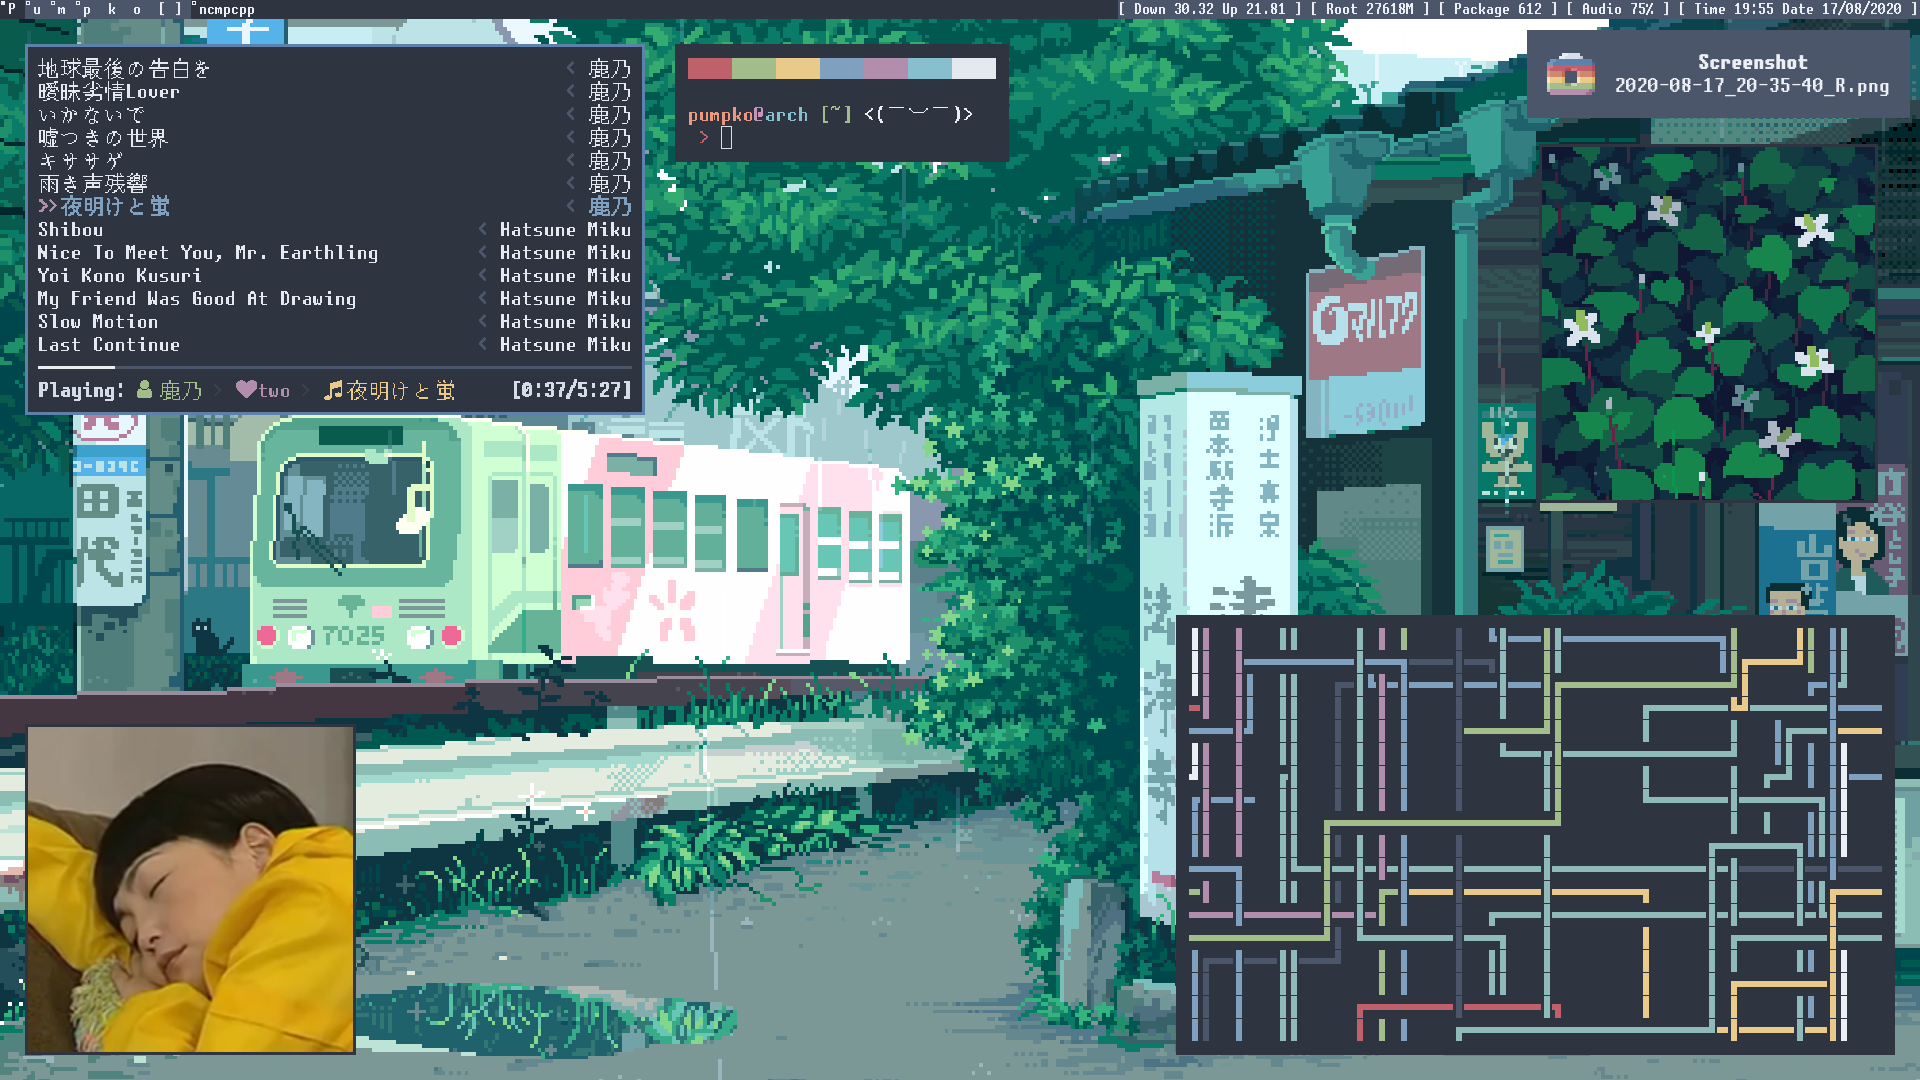
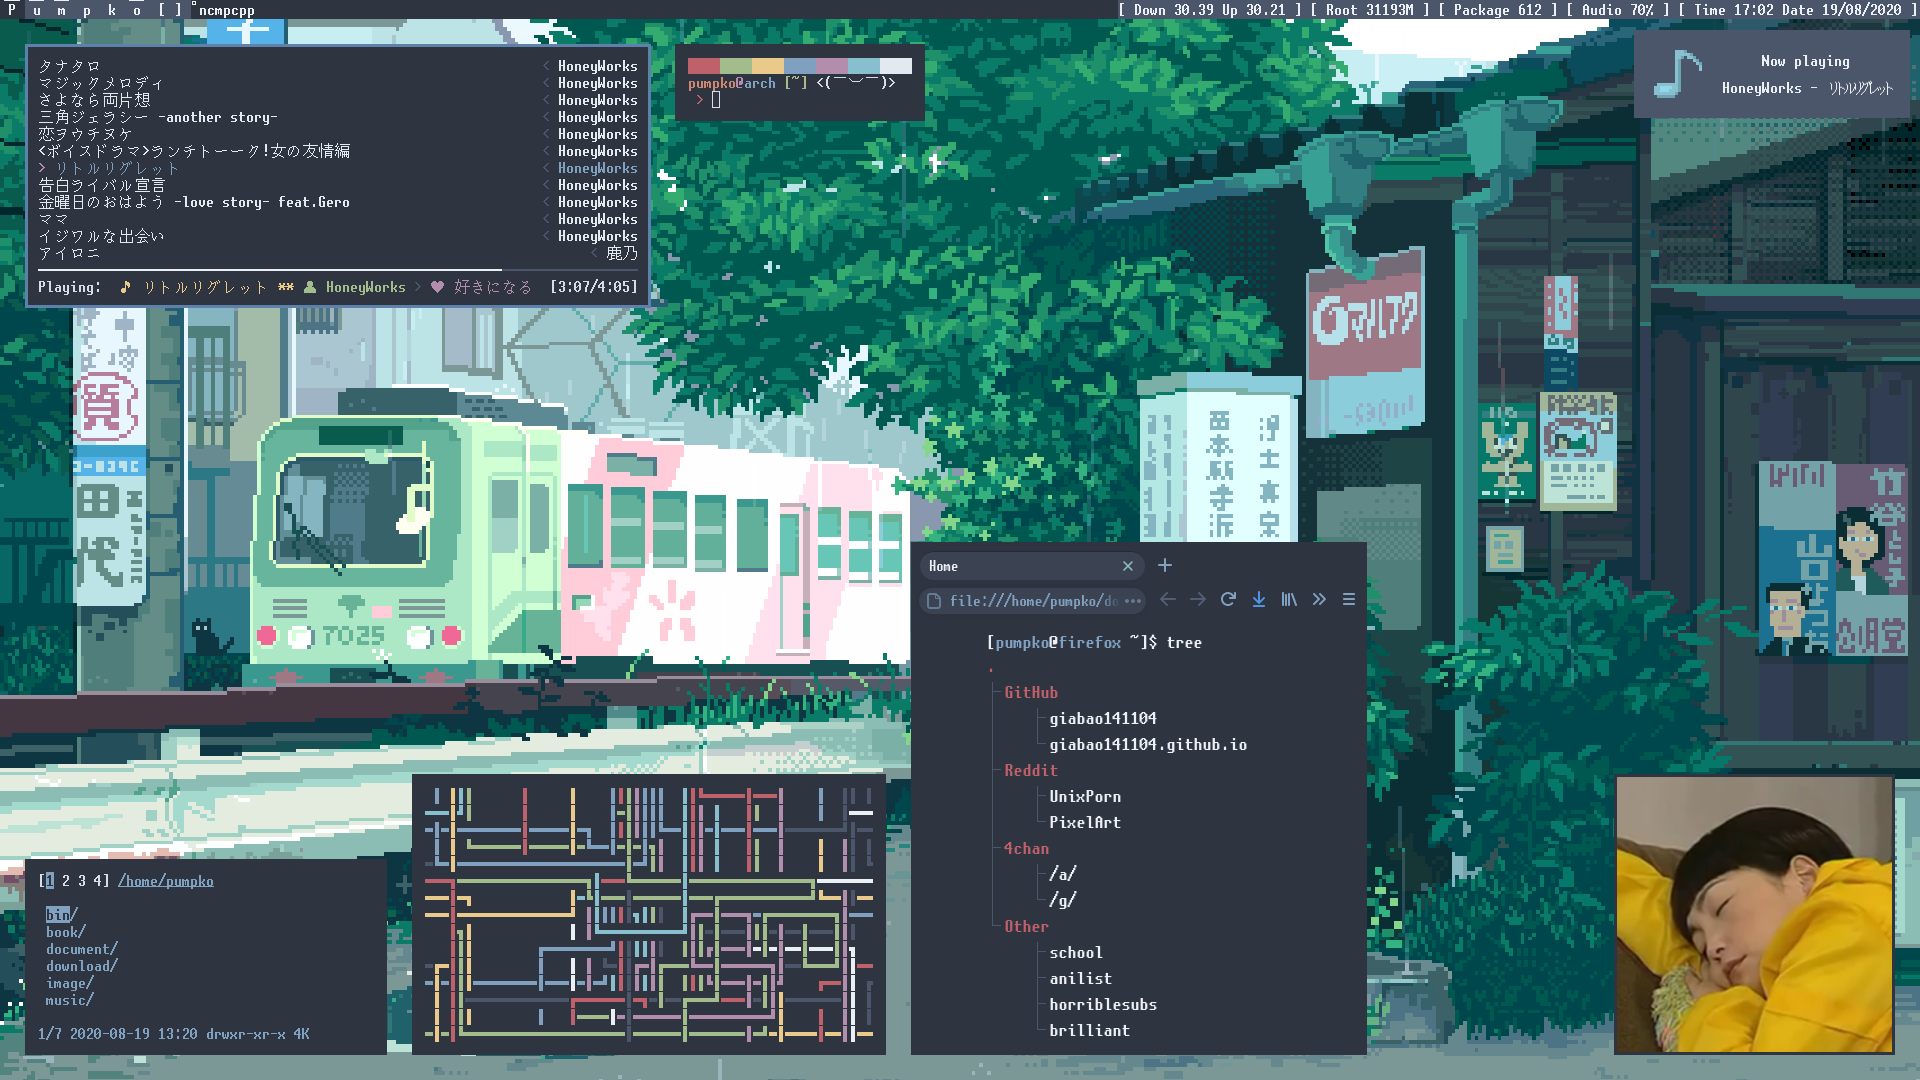
udpate

diff --git a/README.md b/README.md
@@ -1,6 +1,6 @@
 # Update
-Screenshot because I like this [unscii](http://pelulamu.net/unscii/) font (and bought an 1080p monitor)
-![Update 17/8/2020](https://github.com/giabao141104/dotfiles/blob/master/image/unscii-1080p-update.png)
+Screenshot because I like this [unscii](http://pelulamu.net/unscii/) font (and just bought a 1080p monitor)
+![Update 19/08/2020](https://github.com/giabao141104/dotfiles/blob/master/image/unscii-1080p-update.png)
 
 # system
 ## Mount/Unmount using dmenu
@@ -78,6 +78,6 @@ I modified [SSStormy's mpd-rich-presence-discord](https://github.com/SSStormy/mp
 1. Dependencies ```discord-rpc libmpdclient```
 2. Make an [application](https://discord.com/developers/applications)
 3. Upload the 3 buttons in the ```mpd-rich-presence-discord/assets/discord/png/``` to Art Assets under the Rich Presence tab. Rename them to ```pause-circle_png play-circle_png refresh-cw_png``` respectively
-4. Find a good image and upload it to Art Assets, rename it to ```mpd_large```
+4. Find a good image and upload it to Art Assets, rename to ```mpd_large```
 5. Change all the AppId in ```mpd-rich-presence-discord/src/main.cpp``` to the one you just made
 6. Run build.sh and the executable file should be in ```mpd-rich-presence-discord/release```
